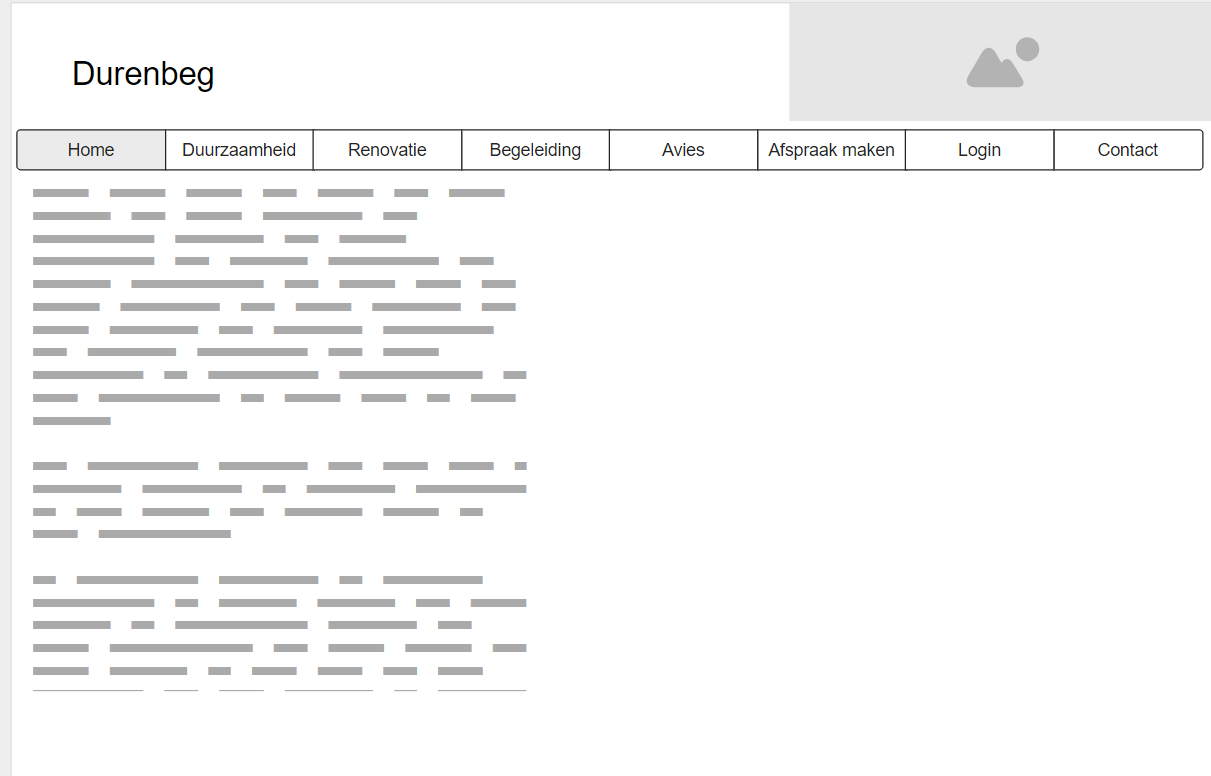
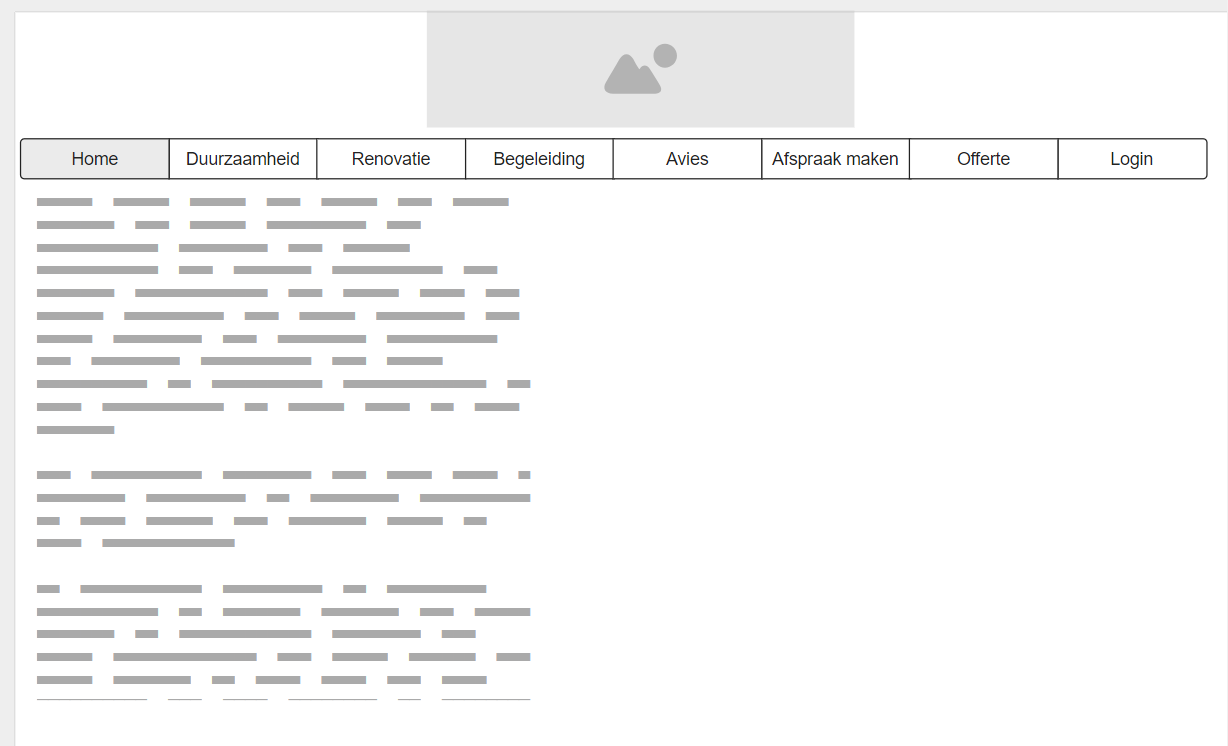
deployment azure

Changed region(s): [[0.0, 0.0, 1.0, 0.9249], [0.0611, 0.0617, 0.1833, 0.1233]]

diff --git a/src/main/webApp/pages/duurzaamheid.html b/src/main/webApp/pages/duurzaamheid.html
@@ -5,6 +5,7 @@
     <title>Durenbeg</title>
     <link rel="stylesheet" href="../styles/algemeen.css" />
     <script type="module" src="../javascript/ingelogd.js"></script>
+    <script type="module" src="../javascript/shared.js"></script>
 </head>
 <body>
     <header>
@@ -17,8 +18,8 @@
                 <li><a href="begeleiding.html">Begeleiding</a></li>
                 <li><a href="advies.html">Advies</a></li>
                 <li><a href="afspraak.html">Afspraak maken</a></li>
-                <li><a href="login.html" id="login">Login</a></li>
                 <li><a href="offerte.html">Offerte</a></li>
+                <li><a href="login.html" id="login">Login</a></li>
             </ul>
         </nav>
     </header>

diff --git a/src/main/webApp/pages/offerte.html b/src/main/webApp/pages/offerte.html
@@ -18,9 +18,9 @@
       <li><a href="renovatie.html">Renovatie</a></li>
       <li><a href="begeleiding.html">Begeleiding</a></li>
       <li><a href="advies.html">Advies</a></li>
-      <li><a href="afspraak.html">Afspraak maken</a></li>
-      <li><a href="login.html"  id="login">Login</a></li>
+      <li><a href="afspraak.html">Afspraak maken</a>
       <li><a class="active" href="offerte.html">Offerte</a></li>
+      <li><a href="login.html"  id="login">Login</a></li>
     </ul>
   </nav>
 </header>

diff --git a/src/main/webApp/index.html b/src/main/webApp/index.html
@@ -17,8 +17,8 @@
                 <li><a href="pages/begeleiding.html">Begeleiding</a></li>
                 <li><a href="pages/advies.html">Advies</a></li>
                 <li><a href="pages/afspraak.html">Afspraak maken</a></li>
-                <li><a href="pages/login.html" id="login">Login</a></li>
                 <li><a href="pages/offerte.html">Offerte</a></li>
+                <li><a href="pages/login.html" id="login">Login</a></li>
             </ul>
         </nav>
     </header>

diff --git a/src/main/webApp/pages/login.html b/src/main/webApp/pages/login.html
@@ -18,8 +18,8 @@
                 <li><a href="begeleiding.html">Begeleiding</a></li>
                 <li><a href="advies.html">Advies</a></li>
                 <li><a href="afspraak.html">Afspraak maken</a></li>
-                <li><a class="active" href="login.html" id="login">Login</a></li>
                 <li><a href="offerte.html">Offerte</a></li>
+                <li><a class="active" href="login.html" id="login">Login</a></li>
             </ul>
         </nav>
     </header>

diff --git a/src/main/webApp/pages/gegevens.html b/src/main/webApp/pages/gegevens.html
@@ -18,8 +18,8 @@
                 <li><a href="begeleiding.html">Begeleiding</a></li>
                 <li><a href="advies.html">Advies</a></li>
                 <li><a href="afspraak.html">Afspraak maken</a></li>
-                <li><a href="gegevens.html" class="active">Mijn account</a></li>
                 <li><a href="offerte.html">Offerte</a></li>
+                <li><a href="gegevens.html" class="active">Mijn account</a></li>
             </ul>
         </nav>
     </header>

diff --git a/src/main/webApp/pages/advies.html b/src/main/webApp/pages/advies.html
@@ -17,8 +17,8 @@
                 <li><a href="begeleiding.html">Begeleiding</a></li>
                 <li><a class="active" href="advies.html">Advies</a></li>
                 <li><a href="afspraak.html">Afspraak maken</a></li>
-                <li id="login"><a href="login.html">Login</a></li>
                 <li><a href="offerte.html">Offerte</a></li>
+                <li id="login"><a href="login.html">Login</a></li>
             </ul>
         </nav>
     </header>

diff --git a/src/main/webApp/pages/begeleiding.html b/src/main/webApp/pages/begeleiding.html
@@ -17,8 +17,8 @@
                 <li><a class="active" href="begeleiding.html">Begeleiding</a></li>
                 <li><a href="advies.html">Advies</a></li>
                 <li><a href="afspraak.html">Afspraak maken</a></li>
-                <li><a href="login.html" id="login">Login</a></li>
                 <li><a href="offerte.html">Offerte</a></li>
+                <li><a href="login.html" id="login">Login</a></li>
             </ul>
         </nav>
     </header>

diff --git a/src/main/webApp/pages/registreren.html b/src/main/webApp/pages/registreren.html
@@ -18,8 +18,8 @@
                 <li><a href="begeleiding.html">Begeleiding</a></li>
                 <li><a href="advies.html">Advies</a></li>
                 <li><a href="afspraak.html">Afspraak maken</a></li>
-                <li><a class="active" href="login.html">Login</a></li>
                 <li><a href="offerte.html">Offerte</a></li>
+                <li><a class="active" href="login.html">Login</a></li>
             </ul>
         </nav>
     </header>

diff --git a/src/main/webApp/pages/afspraak.html b/src/main/webApp/pages/afspraak.html
@@ -18,8 +18,8 @@
                 <li><a href="begeleiding.html">Begeleiding</a></li>
                 <li><a href="advies.html">Advies</a></li>
                 <li><a class="active" href="afspraak.html">Afspraak maken</a></li>
-                <li><a href="gegevens.html">Mijn account</a></li>
                 <li><a href="offerte.html">Offerte</a></li>
+                <li><a href="login.html">Login</a></li>
             </ul>
         </nav>
     </header>

diff --git a/src/main/webApp/pages/renovatie.html b/src/main/webApp/pages/renovatie.html
@@ -17,8 +17,8 @@
                 <li><a href="begeleiding.html">Begeleiding</a></li>
                 <li><a href="advies.html">Advies</a></li>
                 <li><a href="afspraak.html">Afspraak maken</a></li>
-                <li><a href="login.html" id="login">Login</a></li>
                 <li><a href="offerte.html">Offerte</a></li>
+                <li><a href="login.html" id="login">Login</a></li>
             </ul>
         </nav>
     </header>

diff --git a/src/main/webApp/javascript/ingelogd.js b/src/main/webApp/javascript/ingelogd.js
@@ -6,5 +6,5 @@ if (ingelogd) {
     document.getElementById("login").innerHTML = "Mijn account";
     console.log("check4")
 } else {
-    console.log("check3")
+    console.log("check5")
 }

diff --git a/src/main/java/model/Medewerker.java b/src/main/java/model/Medewerker.java
@@ -1,6 +1,6 @@
 package model;
 
-import com.fasterxml.jackson.annotation.JsonProperty;
+import java.util.ArrayList;
 
 public class Medewerker {
     private String voornaam;
@@ -8,6 +8,7 @@ public class Medewerker {
     private String emailMedewerker;
     private String telefoonnummer;
     private String functie;
+    private ArrayList<Afspraak> afspraken;
 
     public Medewerker(String voornaam, String achternaam, String emailMedewerker, String telefoonnummer, String functie) {
         this.voornaam = voornaam;
@@ -23,6 +24,27 @@ public class Medewerker {
 
     public String getAchternaam() {
         return achternaam;
+    }
+    
+    public ArrayList<Afspraak> getAfspraken() { return afspraken; }
+    
+    public boolean isBezet(Afspraak nieuwAfspraak) {
+        boolean bezet = false;
+        for (Afspraak afspraak : afspraken) {
+            if (afspraak.getDatum().equals(nieuwAfspraak.getDatum())) {
+                if (afspraak.getBeginTijd().isBefore(nieuwAfspraak.getBeginTijd()) && afspraak.getEindTijd().isAfter(nieuwAfspraak.getBeginTijd())) {
+                    bezet = true;
+                    break;
+                } else if (afspraak.getBeginTijd().isAfter(nieuwAfspraak.getBeginTijd()) && afspraak.getEindTijd().isBefore(nieuwAfspraak.getEindTijd())) {
+                    bezet = true;
+                    break;
+                } else if (afspraak.getBeginTijd().isAfter(nieuwAfspraak.getBeginTijd()) && afspraak.getBeginTijd().isBefore(nieuwAfspraak.getEindTijd())) {
+                    bezet = true;
+                    break;
+                }
+            } 
+        }
+        return bezet;
     }
 }
 
